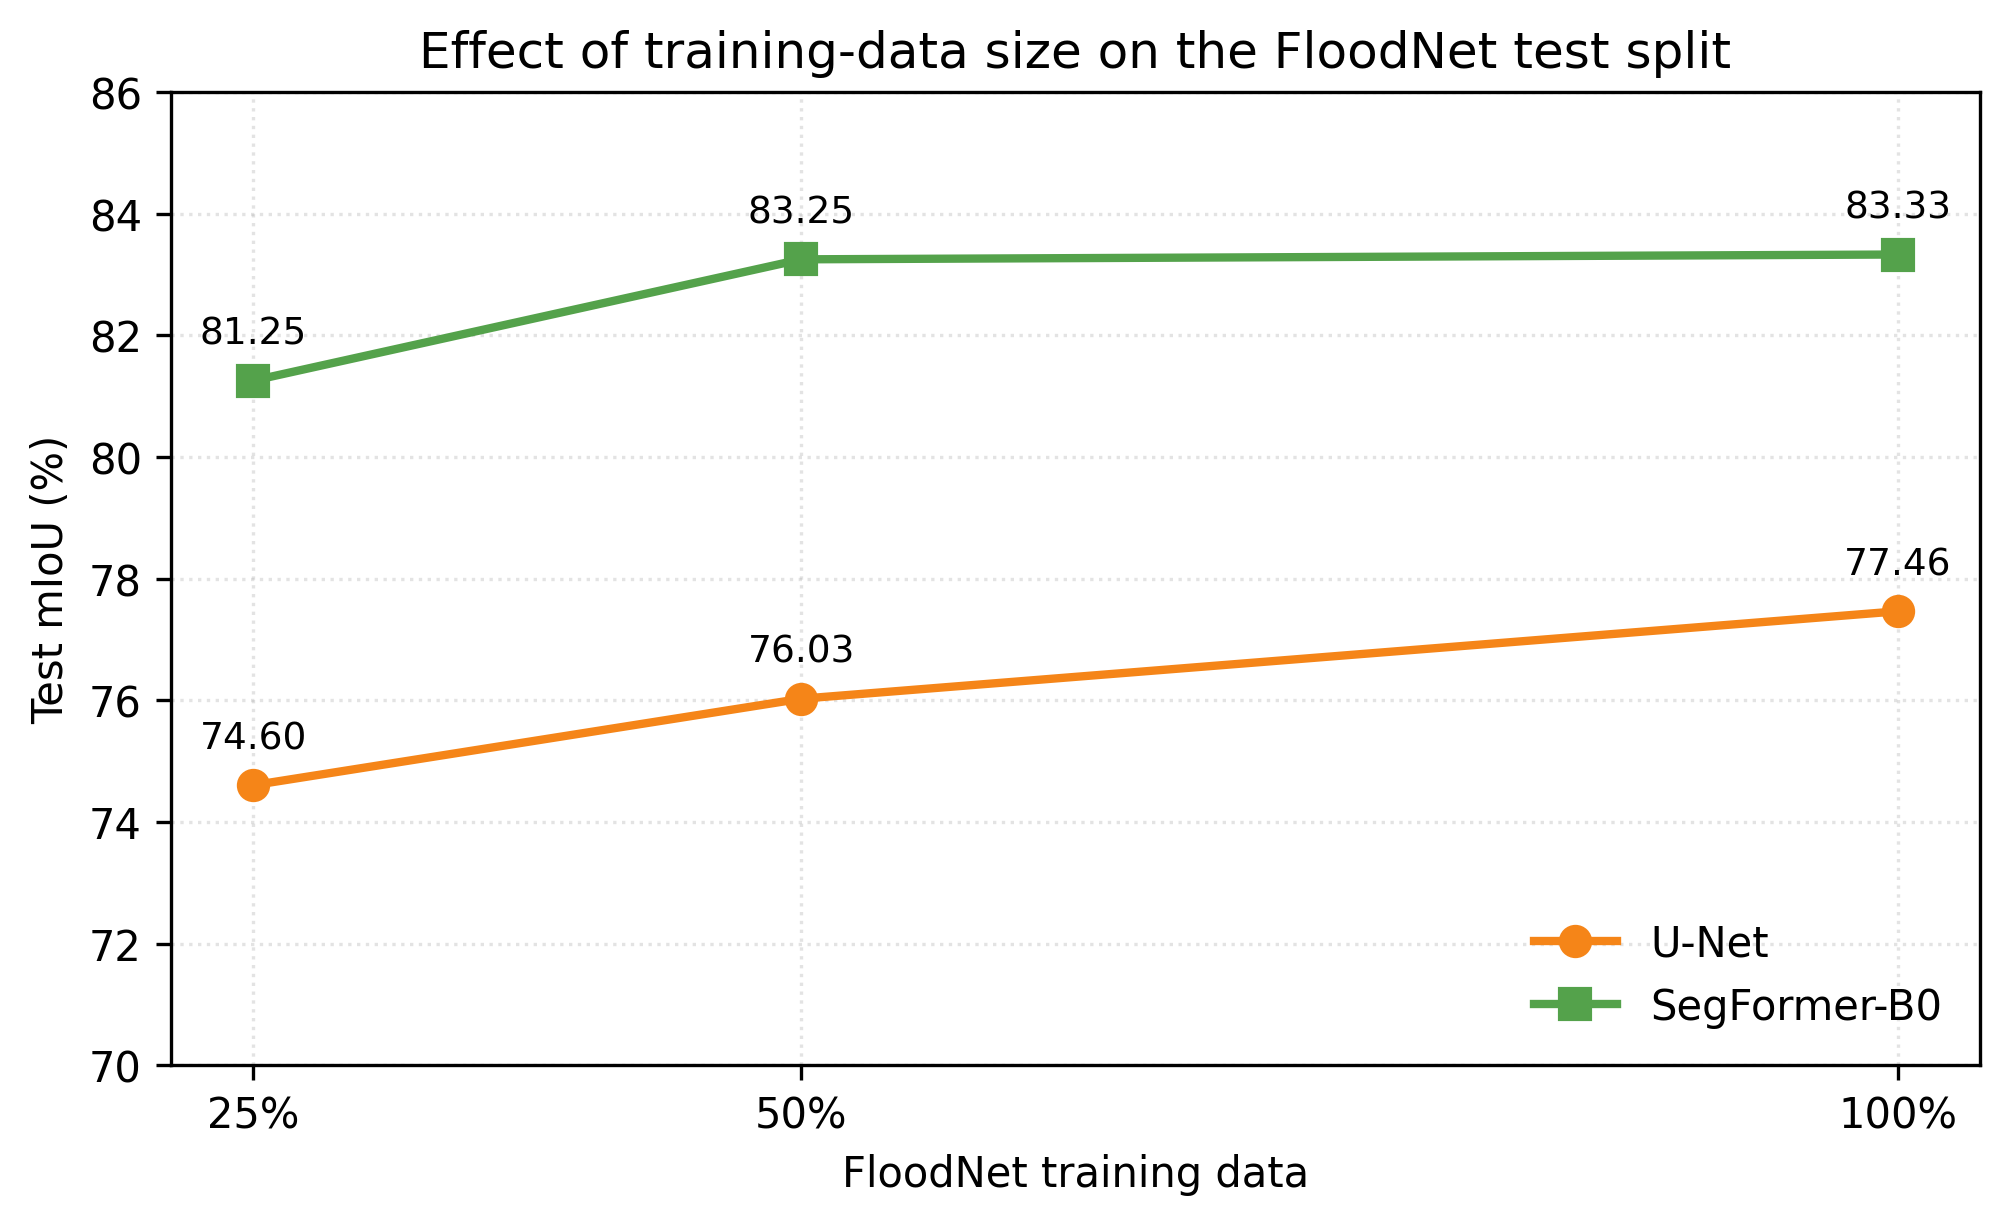
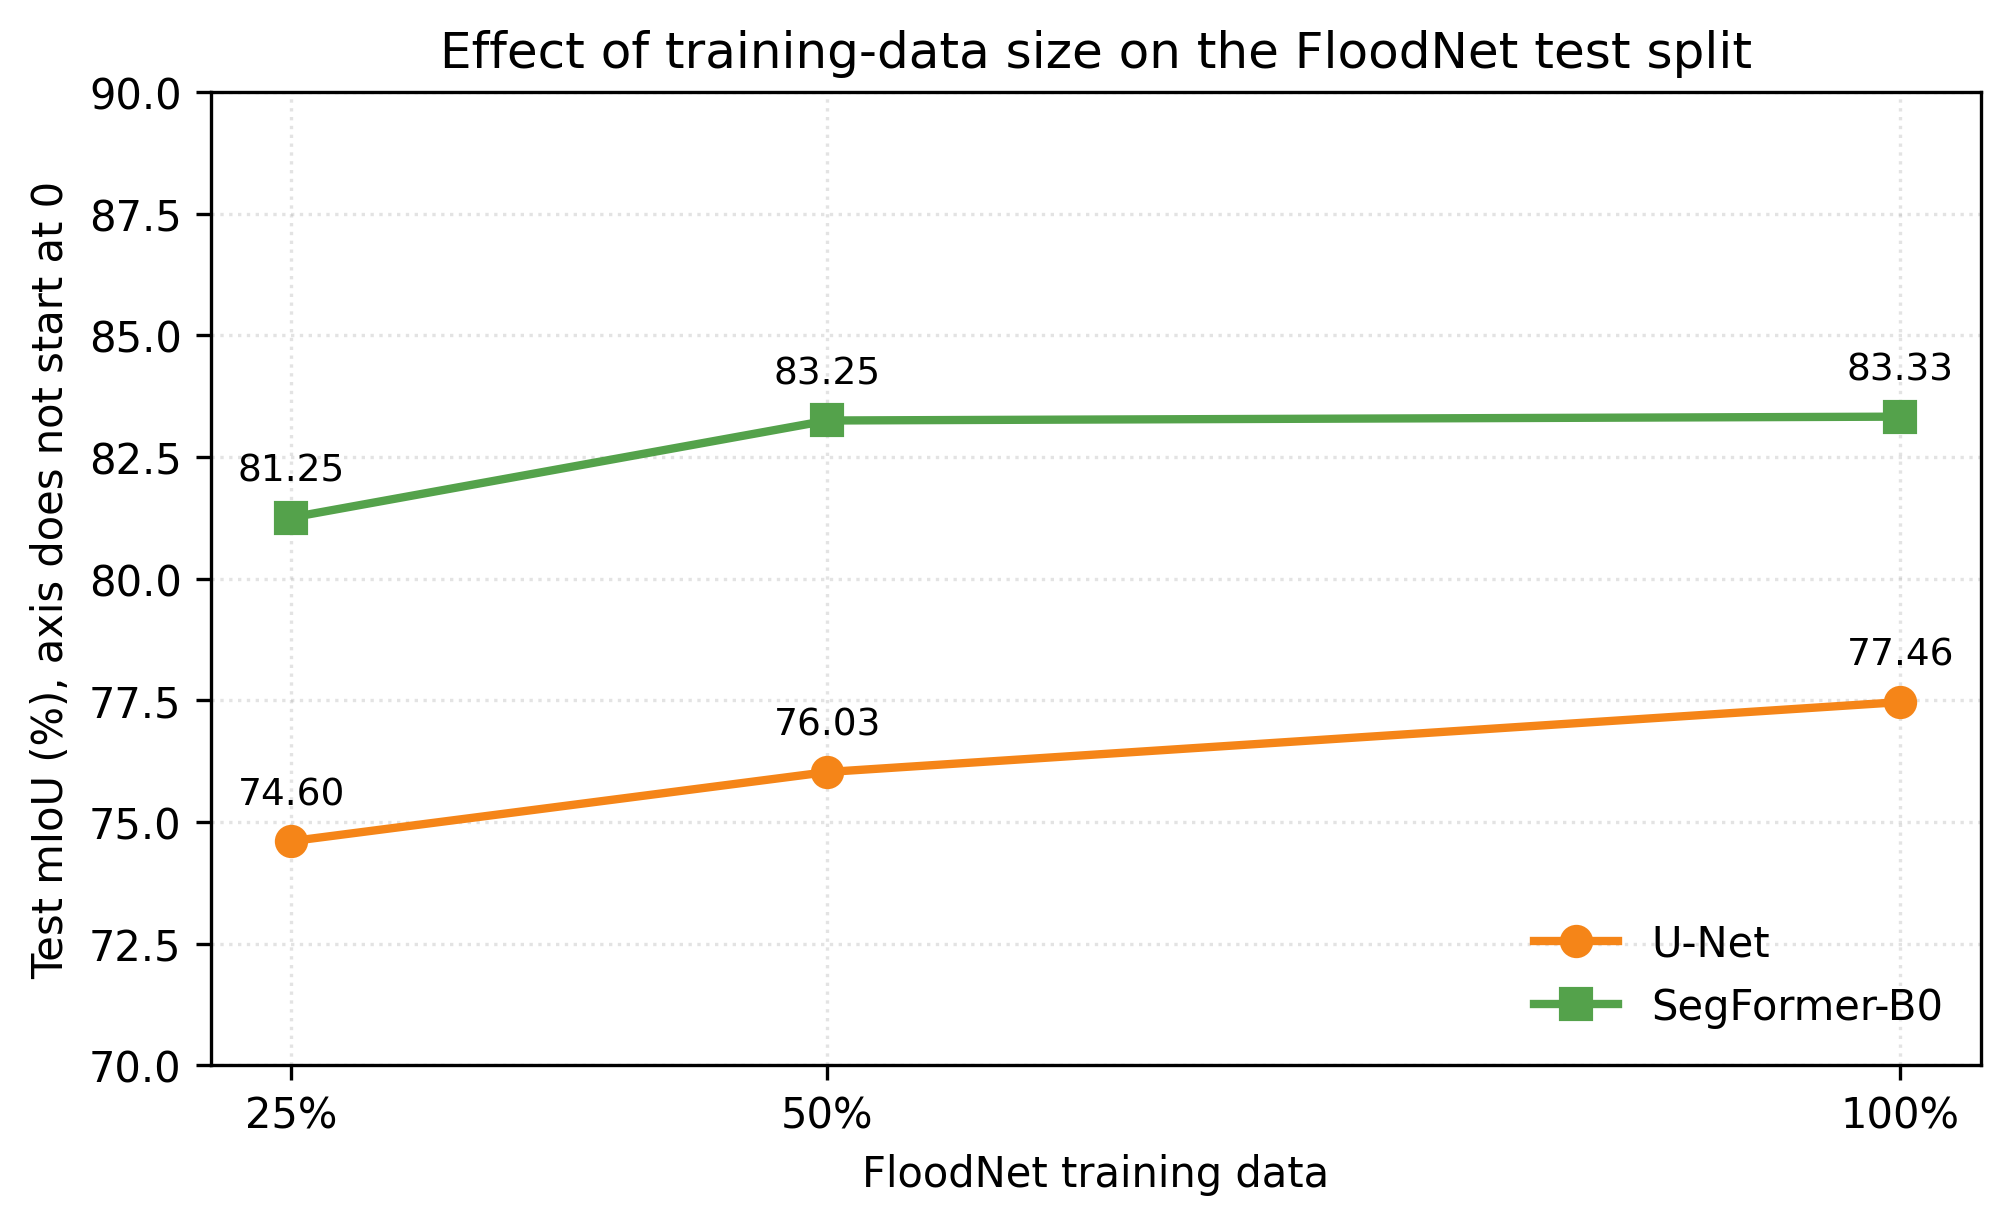
fix review issues in the report and plot scripts
- merge main so the report sees the refreshed efficiency.csv and the hard-condition results
- update Table 3 and the runtime gaps in 4.3 and 5.4 to the current efficiency.csv
- add the hard-condition breakdown to 3.5, 4.5 (Table 6), 5.5 and the evidence map
- U-Net table: show the 80-epoch limit and the recorded final epoch separately
- describe qualitative_examples.png as the two easiest flooded images
- domain-shift plot: neutral legend swatches instead of Graph Cut's blue
- main-comparison plot: color bars by method, not row order
- ablation plot: y-limits from the data and label the zoomed axis
- drop .vscode/settings.json and ignore .vscode/

diff --git a/scripts/plot_domain_shift.py b/scripts/plot_domain_shift.py
@@ -4,6 +4,7 @@ from pathlib import Path
 
 import matplotlib.pyplot as plt
 import pandas as pd
+from matplotlib.patches import Patch
 
 
 ROOT = Path(__file__).resolve().parents[1]
@@ -81,8 +82,12 @@ def main() -> None:
         ax.grid(axis="y", linestyle=":", alpha=0.35)
 
     axes[0].set_ylabel("Test mIoU (%)")
-    handles, labels = axes[0].get_legend_handles_labels()
-    fig.legend(handles, labels, title="Training data", loc="outside lower center", ncol=2)
+    # Neutral swatches: the bar handles would show Graph Cut's color for every method.
+    handles = [
+        Patch(facecolor="gray", alpha=0.42, hatch="//", edgecolor="white", label="FloodNet only"),
+        Patch(facecolor="gray", label="FloodNet + Kaggle + roadway"),
+    ]
+    fig.legend(handles=handles, title="Training data", loc="outside lower center", ncol=2)
     fig.suptitle("Effect of mixed-domain training on test mIoU", fontsize=13)
 
     OUTPUT_DIR.mkdir(parents=True, exist_ok=True)

diff --git a/scripts/plot_data_size_ablation.py b/scripts/plot_data_size_ablation.py
@@ -45,9 +45,12 @@ def main() -> None:
 
     ax.set_xticks([25, 50, 100], ["25%", "50%", "100%"])
     ax.set_xlabel("FloodNet training data")
-    ax.set_ylabel("Test mIoU (%)")
+    ax.set_ylabel("Test mIoU (%), axis does not start at 0")
     ax.set_title("Effect of training-data size on the FloodNet test split")
-    ax.set_ylim(70, 86)
+    # Zoomed axis (not from 0) so the small gaps stay readable; the y-label says so.
+    low = 5 * ((df["miou"].min() - 3) // 5)
+    high = 5 * -(-(df["miou"].max() + 3) // 5)
+    ax.set_ylim(low, high)
     ax.grid(axis="both", linestyle=":", alpha=0.35)
     ax.legend(loc="lower right", frameon=False)
     fig.tight_layout()

diff --git a/scripts/plot_main_comparison.py b/scripts/plot_main_comparison.py
@@ -10,12 +10,18 @@ ROOT = Path(__file__).resolve().parents[1]
 RESULTS = ROOT / "results"
 OUTPUT_DIR = RESULTS / "figures"
 
+METHOD_COLORS = {
+    "classical": "#4C78A8",
+    "scratch": "#F58518",
+    "pretrained": "#54A24B",
+}
+
 
 def main() -> None:
     df = pd.read_csv(RESULTS / "main_results.csv")
     df["label"] = df["name"].replace({"Graph cut": "Graph Cut"})
 
-    colors = ["#4C78A8", "#F58518", "#54A24B"]
+    colors = df["method"].map(METHOD_COLORS).tolist()
     metrics = [
         ("miou", "mIoU (%)", "Mean IoU"),
         ("iou_flood", "Flood IoU (%)", "Flood IoU"),

diff --git a/docs/final_report.md b/docs/final_report.md
@@ -39,14 +39,14 @@ Training uses the shared BCE-plus-Dice objective and early stopping on validatio
 
 For every U-Net run, the script uses AdamW with an initial learning rate of \(10^{-3}\), weight decay \(10^{-4}\), batch size 8, and the common cosine learning-rate schedule. The scratch configuration allows 80 epochs and uses patience 12 for early stopping. The recorded runs are:
 
-| U-Net run | Maximum scheduled epochs | Epoch with best validation mIoU | Best validation mIoU (%) |
-|---|---:|---:|---:|
-| FloodNet only (`train`) | 53 | 41 | 78.081 |
-| Mixed (`mixed`) | 68 | 56 | 75.173 |
-| 50% FloodNet (`train_50`) | 68 | 56 | 76.519 |
-| 25% FloodNet (`train_25`) | 59 | 47 | 75.033 |
+| U-Net run | Configured epoch limit | Recorded final epoch | Epoch with best validation mIoU | Best validation mIoU (%) | Stopping outcome |
+|---|---:|---:|---:|---:|---|
+| FloodNet only (`train`) | 80 | 53 | 41 | 78.081 | Early stopping |
+| Mixed (`mixed`) | 80 | 68 | 56 | 75.173 | Early stopping |
+| 50% FloodNet (`train_50`) | 80 | 68 | 56 | 76.519 | Early stopping |
+| 25% FloodNet (`train_25`) | 80 | 59 | 47 | 75.033 | Early stopping |
 
-The maximum scheduled epoch is the last row in the saved history; early stopping is triggered by validation-mIoU patience rather than necessarily completing the configured 80-epoch limit. The exact histories and maxima are in `results/history_scratch_*.csv`, and the aggregate timing and parameter values are in `results/training_runs.csv`.
+The recorded final epoch is the last row in the saved history. Every U-Net run stopped early, 12 epochs after its best validation mIoU, before reaching the configured 80-epoch limit. The exact histories are in `results/history_scratch_*.csv`, and the aggregate timing and parameter values are in `results/training_runs.csv`.
 
 ### 2.4 SegFormer-B0
 
@@ -100,6 +100,8 @@ The fourth experiment compares FloodNet-only and mixed training. Both training c
 
 The fifth experiment aggregates test pixels by original FloodNet class and records the percentage predicted as flood. It also identifies flooded test images with the lowest mean per-image mIoU. Outputs are in `results/failure_per_class.csv`, `results/failure_per_class.png`, and `results/failure_cases.png`.
 
+The failure analysis also includes a hard-condition breakdown. The tagged set has 42 test images: 12 flooded FloodNet, 12 Roadway, and 8 Kaggle test images drawn at random (seed 42), plus the 10 local photos. Each image is tagged 1 or 0 for four conditions: muddy water, reflections or glare, wet roads, and shadows. Tags were assigned by looking at each photo alone, without the models' predictions, and one image can carry several tags. The mixed-trained models are then scored with pooled metrics on the images with and without each condition. The tags are in `splits/hard_case_tags.csv`, and the outputs are `results/hard_cases.csv`, `results/hard_cases.png`, and `results/hard_case_examples.png`.
+
 ### 3.6 Graph-Cut Tuning and Sanity Check
 
 Graph Cut parameters are tuned on held-out validation data. `results/classical_tuning_train.csv` reports the FloodNet-only validation sweep, and `results/classical_tuning_mixed.csv` reports the mixed validation sweep. The repository also includes `results/sanity_classical.csv` and a synthetic sanity visualization for testing whether the classical max-flow and segmentation implementation responds to basic controlled cases.
@@ -137,7 +139,7 @@ The most useful report figures are:
 
 - `results/figures/main_model_comparison.png`: report-ready bar comparison of mIoU, flood IoU, Dice, and pixel accuracy.
 - `results/efficiency_runtime.png`: log-scale inference runtime comparison.
-- `results/qualitative_examples.png`: representative successful predictions for all three methods.
+- `results/qualitative_examples.png`: predictions from all three methods on the two easiest flooded test images (highest mean per-image mIoU across the three methods). These are best-case examples, not typical output.
 
 The source values are in `results/main_results.csv`. The script `scripts/plot_main_comparison.py` reproduces the report-ready main-comparison figure.
 
@@ -164,13 +166,13 @@ Table 3 reports the dedicated runtime benchmark.
 
 | Method | Device | Median runtime (ms) | P90 runtime (ms) | Parameters (M) | Mixed training time (min) |
 |---|---|---:|---:|---:|---:|
-| Graph Cut | CPU | 530.932 | 751.289 | 0.000 | 16.2 |
-| U-Net | CPU | 417.908 | 421.910 | 7.763 | 47.3 |
-| U-Net | CUDA | 21.461 | 22.459 | 7.763 | 47.3 |
-| SegFormer-B0 | CPU | 204.805 | 215.315 | 3.714 | 32.85 |
-| SegFormer-B0 | CUDA | 31.084 | 50.284 | 3.714 | 32.85 |
+| Graph Cut | CPU | 561.005 | 785.919 | 0.000 | 16.2 |
+| U-Net | CPU | 416.314 | 421.710 | 7.763 | 47.3 |
+| U-Net | CUDA | 21.524 | 22.666 | 7.763 | 47.3 |
+| SegFormer-B0 | CPU | 205.659 | 215.968 | 3.714 | 32.85 |
+| SegFormer-B0 | CUDA | 32.942 | 52.588 | 3.714 | 32.85 |
 
-On CUDA, U-Net was faster than SegFormer-B0 by 9.623 ms in median runtime. On CPU, SegFormer-B0 was faster than U-Net by 213.103 ms, and Graph Cut was slower than both deep models. SegFormer-B0 has 3.714 million parameters, fewer than U-Net's 7.763 million.
+On CUDA, U-Net was faster than SegFormer-B0 by 11.418 ms in median runtime. On CPU, SegFormer-B0 was faster than U-Net by 210.655 ms, and Graph Cut was slower than both deep models. SegFormer-B0 has 3.714 million parameters, fewer than U-Net's 7.763 million.
 
 The training-time column corresponds to mixed training. SegFormer-B0 required 32.85 minutes, U-Net 47.3 minutes, and Graph Cut 16.2 minutes in the recorded mixed runs.
 
@@ -218,6 +220,22 @@ SegFormer-B0 detected 88.978% of water pixels, 84.397% of flooded-road pixels, a
 
 The hardest flooded test images are visualized in `results/failure_cases.png`. The lowest mean mIoU among flooded images was 13.8327% for image 7450, followed by 20.5533% for 7773, 22.2320% for 7743, and 24.2257% for 7772. These values are arithmetic means of the per-image mIoU values of all three methods (Graph Cut, U-Net, and SegFormer-B0), calculated by grouping `results/per_image_test.csv` by image ID and averaging its `miou` column. The failure script applies the same calculation: it filters images with more than 5% ground-truth flood coverage and uses `groupby("id")["miou"].mean().nsmallest(...)`. Therefore, `results/failure_cases.png` uses the same cross-method mean values reported here.
 
+Table 6 gives the mixed-trained models' pooled mIoU on the 42 tagged images, split by whether each condition is present.
+
+| Condition | Present? | Images | Graph Cut | U-Net | SegFormer-B0 |
+|---|---|---:|---:|---:|---:|
+| All tagged images | – | 42 | 60.744 | 72.267 | 85.622 |
+| Muddy water | Yes | 28 | 60.821 | 69.806 | 84.124 |
+| Muddy water | No | 14 | 60.522 | 78.840 | 89.498 |
+| Reflection or glare | Yes | 22 | 60.032 | 69.563 | 84.548 |
+| Reflection or glare | No | 20 | 61.216 | 76.217 | 86.795 |
+| Wet road | Yes | 8 | 60.810 | 64.280 | 86.668 |
+| Wet road | No | 34 | 60.657 | 73.212 | 85.502 |
+| Shadow | Yes | 12 | 51.101 | 64.187 | 79.853 |
+| Shadow | No | 30 | 66.637 | 77.215 | 89.119 |
+
+Shadow was the only condition that lowered mIoU for all three methods. The drop was 15.536 points for Graph Cut, 13.028 for U-Net, and 9.266 for SegFormer-B0. U-Net was the most sensitive model overall: it lost 9.034 points on muddy water, 8.932 on wet roads, and 6.654 on reflections. SegFormer-B0 lost 5.374 points on muddy water and 2.247 on reflections, and was 1.166 points higher on wet-road images. Graph Cut changed by less than 1.2 points for muddy water, reflections, and wet roads. SegFormer-B0 had the highest mIoU in every row of Table 6. The figure `results/hard_cases.png` plots these values, and `results/hard_case_examples.png` shows one tagged example per condition.
+
 ## 5. Analysis and Discussion
 
 ### 5.1 Segmentation Quality
@@ -242,15 +260,17 @@ Within the FloodNet test set, adding the extra training domains had a smaller ef
 
 ### 5.4 Efficiency and Implementation Trade-Offs
 
-At the reported CUDA benchmark, U-Net had the lower median runtime: 21.461 ms compared with 31.084 ms for SegFormer-B0. At 29.538 ms in the main test's runtime column, U-Net was also faster than SegFormer-B0's 41.037 ms. These two runtime values are reported separately because they come from different procedures in `main_results.csv` and `efficiency.csv`.
+At the reported CUDA benchmark, U-Net had the lower median runtime: 21.524 ms compared with 32.942 ms for SegFormer-B0. At 29.538 ms in the main test's runtime column, U-Net was also faster than SegFormer-B0's 41.037 ms. These two runtime values are reported separately because they come from different procedures in `main_results.csv` and `efficiency.csv`.
 
-Graph Cut had no learned parameters but was slower than both deep models on CPU. Its dedicated median runtime was 530.932 ms. U-Net's CPU median was 417.908 ms and SegFormer-B0's was 204.805 ms.
+Graph Cut had no learned parameters but was slower than both deep models on CPU. Its dedicated median runtime was 561.005 ms. U-Net's CPU median was 416.314 ms and SegFormer-B0's was 205.659 ms.
 
 SegFormer-B0 used fewer parameters than U-Net but required more GPU inference time than U-Net in the dedicated benchmark. Mixed training took 32.85 minutes for SegFormer-B0, 47.3 minutes for U-Net, and 16.2 minutes for Graph Cut. The quality-efficiency choice therefore depends on the target device: U-Net provides the fastest CUDA median runtime, SegFormer-B0 provides the highest segmentation quality and better CPU runtime, and Graph Cut requires no learned parameters but provides lower quality and slower CPU inference.
 
 ### 5.5 Interpretation of Failure Cases
 
-The per-class and per-image results provide evidence for remaining false positives and boundary or region errors, but they do not by themselves identify a causal visual mechanism for every failure. The repository's visualizations show the hardest flooded images but do not include an independent qualitative taxonomy. Accordingly, the report does not attribute failures to a single lighting, color, or texture condition.
+The per-class and per-image results provide evidence for remaining false positives and boundary or region errors, but they do not by themselves identify a causal visual mechanism for every failure. The hard-condition breakdown adds a visual view of the failures. Shadows are linked with lower mIoU for every method. U-Net also drops noticeably on muddy water, wet roads, and reflections, while SegFormer-B0 is more stable on those three. Graph Cut's mIoU is low across the board and changes little with most conditions, which fits its broadly distributed false positives.
+
+These associations should be read with care. The tagged set has 42 images, the wet-road group has only 8, tags were assigned by eye, and one image can carry several tags. Conditions also overlap with test domains; for example, 7 of the 8 wet-road images come from Roadway. The breakdown therefore shows where each model scores lower, not that a given condition causes the drop.
 
 The quantitative pattern is that Graph Cut's failures are broadly distributed across non-flood classes, while U-Net and SegFormer-B0 reduce these false positives substantially. SegFormer-B0 also improves detection of flooded water, roads, and buildings, with residual confusion concentrated in background and selected non-flood classes such as pools and vehicles.
 
@@ -305,5 +325,6 @@ The repository contains implementation and experiment files for the Graph Cut, U
 | Results: efficiency | Median/P90 runtimes, parameters, mixed training time | `results/efficiency.csv`, `results/training_runs.csv` |
 | Results: domain shift | Train-only versus mixed mIoU across domains | `results/domain_shift.csv`, `results/domain_shift.png` |
 | Results: failure patterns | Per-class flood prediction rates | `results/failure_per_class.csv`, `results/failure_per_class.png` |
+| Results: hard conditions | mIoU with and without muddy water, reflections, wet roads, and shadows | `splits/hard_case_tags.csv`, `results/hard_cases.csv`, `results/hard_cases.png`, `results/hard_case_examples.png` |
 | Results: tuning | Graph Cut validation parameter sweeps | `results/classical_tuning_train.csv`, `results/classical_tuning_mixed.csv` |
 | Training artifacts | Recorded epochs and best validation mIoU | `results/training_runs.csv`, `results/history_*.csv` |
